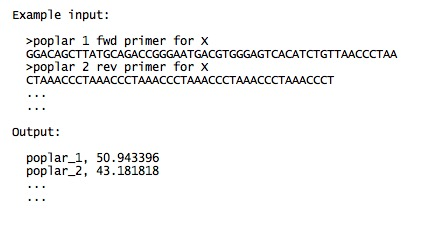
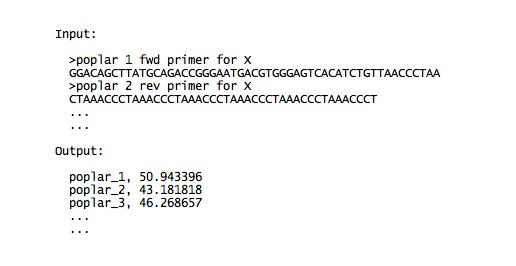
Fixed markdown, again

diff --git a/bioinf/gc_content.py b/bioinf/gc_content.py
@@ -53,20 +53,22 @@ def main(filename):
     Assumes each id has one space, and replaces that with an underscore.
     The output is text, formatted as CSV.
 
-    Example input:
-    --------------
-    >poplar 1 fwd primer for X
-    GGACAGCTTATGCAGACCGGGAATGACGTGGGAGTCACATCTGTTAACCCTAA
-    >poplar 2 rev primer for X
-    CTAAACCCTAAACCCTAAACCCTAAACCCTAAACCCTAAACCCT
-    ...
+    Input:
+
+      >poplar 1 fwd primer for X
+      GGACAGCTTATGCAGACCGGGAATGACGTGGGAGTCACATCTGTTAACCCTAA
+      >poplar 2 rev primer for X
+      CTAAACCCTAAACCCTAAACCCTAAACCCTAAACCCTAAACCCT
+      ...
+      ...
 
     Output:
-    --------------
-    poplar_1, 50.943396
-    poplar_2, 43.181818
-    poplar_3, 46.268657
-    ...
+  
+      poplar_1, 50.943396
+      poplar_2, 43.181818
+      poplar_3, 46.268657
+      ...
+      ...
 
     To save output to file:
 
